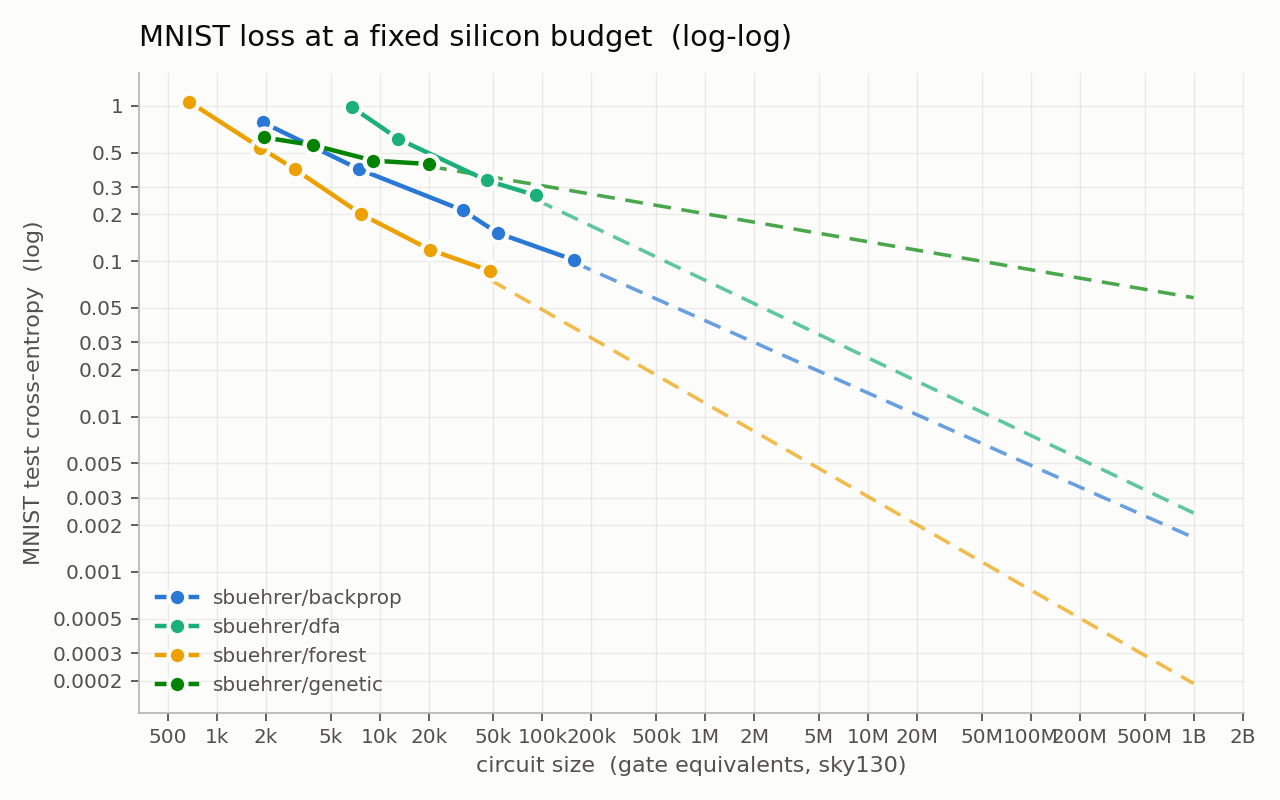
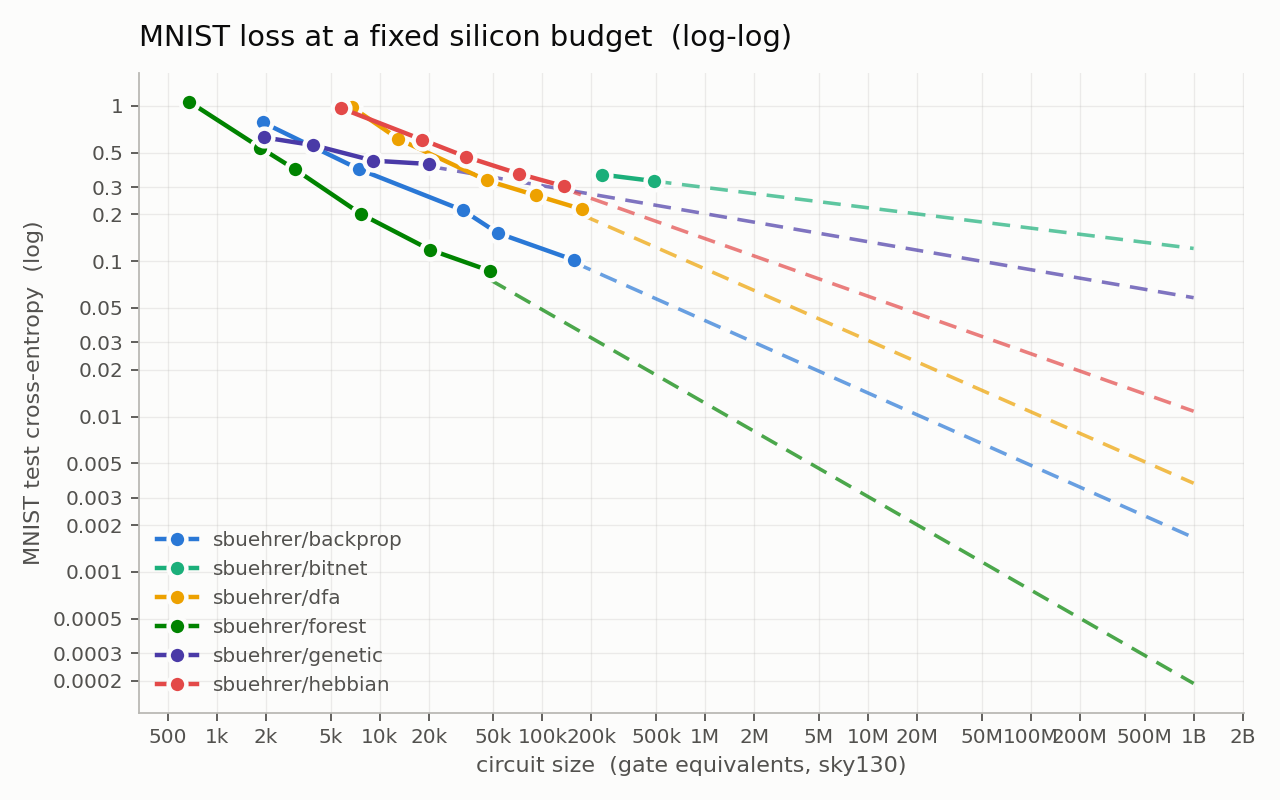
Fix hebbian record shape and add its measured 5-point curve
The record had never been run: it shipped POINTS but no results.json, so it
was absent from the leaderboard. Running it exposed that all four shipped
points were in the wrong regime, and sweeps overturned every knob:

  * Depth is destructive, not merely useless. w4096 d13 plateaus at 63.0% val
    where w4096 d3 reaches 87.6%. Deep nets lose despite a full 784-pixel
    receptive field, beaten by d=4 nets whose gates see 16 pixels.
  * The readout is the entire lever: at ~9k gates, ro=160 -> 43.65% and
    ro=1280 -> 71.80%. The body is worth roughly nothing.
  * bits=1 wins and is free (pix > 127 is bit 7, a wire).

The cause is structural: every hidden layer is trained against a fixed random
class assembly, so a layer-1 gate is asked to predict the digit from two
pixels. It fits noise and each further layer compounds it. The body destroys
information; the grouped vote readout is what classifies. These are the same
lessons `dfa` reached independently on this same butterfly.

Also renames the knob `depth` -> `layers`. bench.run_point merges the measured
netlist fields over the POINTS dict, and one of them is `depth`, so the body
depth was being silently overwritten in results.json -- the bug documented in
the dfa record.

Measured (test acc, from the synthesized netlist):

  xs   5,752 GE  67.21%     l   71,640 GE  88.48%
  s   18,322 GE  80.04%     xl 135,783 GE  90.61%
  m   33,958 GE  84.62%

Every point is below the frontier and dominated by `forest`. The comparison
[…]

diff --git a/records/sbuehrer/hebbian/submission.py b/records/sbuehrer/hebbian/submission.py
@@ -39,13 +39,19 @@ from mnistbench.spec import Submission
 
 TITLE = "hebbian (target-clamped local plasticity)"
 
-# Same fixed butterfly family as the targetprop/DFA records, but with a different local update.
-# `epochs` is a ceiling: validation early-stopping decides where each point actually stops.
+# Same fixed butterfly family as the DFA record, but with a different local update.  The knob is
+# `layers`, not `depth`: `bench.run_point` merges the measured netlist fields over the POINTS dict
+# and one of them is `depth`, so a POINTS key of that name is silently overwritten in results.json.
+#
+# The ladder is shallow with a wide readout because that is what the sweep measured (see README):
+# this rule gets its accuracy from the width of the grouped vote, not from body depth.  `epochs` is
+# a ceiling: validation early-stopping decides where each point actually stops.
 POINTS = [
-    {"name": "xs", "bits": 1, "width": 1024, "depth": 11, "readout": 320, "epochs": 80},
-    {"name": "s", "bits": 1, "width": 2048, "depth": 12, "readout": 640, "epochs": 80},
-    {"name": "m", "bits": 3, "width": 4096, "depth": 13, "readout": 640, "epochs": 80},
-    {"name": "l", "bits": 3, "width": 8192, "depth": 14, "readout": 1280, "epochs": 60},
+    {"name": "xs", "bits": 1, "width": 512, "layers": 3, "readout": 640, "epochs": 80},
+    {"name": "s", "bits": 1, "width": 1024, "layers": 3, "readout": 2560, "epochs": 80},
+    {"name": "m", "bits": 1, "width": 2048, "layers": 3, "readout": 5120, "epochs": 80},
+    {"name": "l", "bits": 1, "width": 4096, "layers": 3, "readout": 10240, "epochs": 60},
+    {"name": "xl", "bits": 1, "width": 8192, "layers": 3, "readout": 20480, "epochs": 60},
 ]
 
 
@@ -92,7 +98,7 @@ class HebbianNet:
         self,
         bits: int,
         width: int,
-        depth: int,
+        layers: int,
         readout: int,
         device: str,
         g: torch.Generator,
@@ -106,7 +112,7 @@ class HebbianNet:
         self.thresholds = even_thresholds(bits)
         self.n_in = N_PIXELS * bits
         self.device = device
-        self.widths = [width] * depth + [readout]
+        self.widths = [width] * layers + [readout]
         self.tau = max(1.0, (readout // N_CLASSES) ** 0.5)
 
         self.offs = [self.n_in]
@@ -182,7 +188,7 @@ class HebbianLut(Submission):
         self,
         bits: int,
         width: int,
-        depth: int,
+        layers: int,
         readout: int,
         epochs: int,
         batch: int = 4096,
@@ -194,7 +200,7 @@ class HebbianLut(Submission):
         self.cfg = dict(
             bits=bits,
             width=width,
-            depth=depth,
+            layers=layers,
             readout=readout,
             epochs=epochs,
             batch=batch,
@@ -211,7 +217,7 @@ class HebbianLut(Submission):
         torch.manual_seed(seed)
         g = torch.Generator(device=device).manual_seed(seed)
         net = HebbianNet(
-            c["bits"], c["width"], c["depth"], c["readout"], device, g, c["assembly_frac"]
+            c["bits"], c["width"], c["layers"], c["readout"], device, g, c["assembly_frac"]
         )
 
         enc_tr = _encode(_t(data.train_x, device), net)
@@ -280,7 +286,7 @@ class HebbianLut(Submission):
 
     def _chunk(self) -> int:
         c = self.cfg
-        n_sig = N_PIXELS * c["bits"] + c["width"] * c["depth"] + c["readout"]
+        n_sig = N_PIXELS * c["bits"] + c["width"] * c["layers"] + c["readout"]
         return max(64, min(4096, 2**28 // n_sig))
 
     @torch.no_grad()

diff --git a/records/sbuehrer/hebbian/README.md b/records/sbuehrer/hebbian/README.md
@@ -1,36 +1,117 @@
 # sbuehrer/hebbian
 
-Fixed butterfly wiring, LUT truth tables learned by a supervised Hebbian / three-factor rule.
+Fixed butterfly wiring, LUT truth tables learned by a supervised Hebbian / three-factor rule. No
+backpropagation, no backward pass of any kind, and — unlike `dfa` — no feedback pathway at all.
 
-Each gate sees only two input bits, so a trainable gate has four possible local patterns.  During
-training, the active pattern is the eligibility trace.  The label supplies a clamped target
-assembly, while the network's current class probabilities supply the free phase:
+Each gate sees only two input bits, so a trainable gate has four possible local patterns. During
+training, the active pattern is the eligibility trace. The label supplies a clamped target assembly,
+while the network's current class probabilities supply the free phase:
 
 ```text
 third factor = target_class_code - predicted_class_mixture
 table[p]    += eligibility[p] * third factor
 ```
 
-Hidden layers get fixed sparse class assemblies.  The readout layer gets the usual one-vs-rest
-class groups.  A hidden gate therefore learns whether its local two-bit pattern should participate
-in the label's assembly, and the readout learns which group should fire.
+Hidden layers get fixed sparse class assemblies. The readout layer gets the usual one-vs-rest class
+groups. A hidden gate therefore learns whether its local two-bit pattern should participate in the
+label's assembly, and the readout learns which group should fire.
 
-No autograd graph is built and no `.backward()` call is made.  The update is just scatter-counting
-onto the active truth-table entry.  The forward pass is hard boolean throughout, so the validation
+No autograd graph is built and no `.backward()` call is made. The update is just scatter-counting
+onto the active truth-table entry. The forward pass is hard boolean throughout, so the validation
 accuracy printed during training is the exact circuit accuracy before synthesis.
+
+## What the sweeps said (val, never test)
+
+This record shipped with the wrong shape. Its original points were 11–14 body layers deep with a
+narrow readout, and every one of those choices measured backwards.
+
+**Depth here is not a cost with no benefit — it is actively destructive.** At a matched gate budget:
+
+| gates | shape | receptive field | val |
+|---|---|---|---|
+| 12,928 | w2048 d6 ro640 | 128/784 | **57.25%** |
+| 33,088 | w4096 d8 ro320 | 432/784 | 50.61% |
+| 49,312 | w4096 d12 ro160 | 784/784 | 38.23% |
+| 28,832 | w2048 d14 ro160 | 784/784 | 20.78% |
+
+Deep nets lose *despite* seeing the whole image, while shallow nets whose gates see 16 of 784 pixels
+win. On full data the gap is stark: `w4096 d13 ro640` plateaus at **63.0%** after 40 epochs, where
+`w4096 d3 ro10240` reaches **87.6%**.
+
+The reason is structural, and it is the honest finding of this record. Every hidden layer is trained
+against a *fixed random class assembly*, so a layer-1 gate is asked to predict the digit from two
+pixels. That is not a hard problem, it is an impossible one: the gate fits noise, and every further
+layer compounds the noise it is handed. The butterfly body destroys information rather than building
+features. What classifies is the grouped vote at the end.
+
+**The readout is the entire lever.** At a fixed ~9k gates, only the vote width moves the number:
+
+| readout | 160 | 320 | 1280 |
+|---|---|---|---|
+| val (w2048 d4) | 43.65 | 58.47 | **71.80** |
+
+Widening the vote is worth +28 points; the body is worth roughly nothing. So every point here is 3
+layers deep and spends its silicon on the readout.
+
+**`bits=1` wins**, and is free (`pix > 127` is bit 7, a wire). Thermometer bits only appear to help
+when the readout is already starved — at `ro=5120`, `bits=3` (83.58%) and `bits=1` (81.77%) land in
+the same place for more area, so the extra encoder bits buy nothing.
+
+These are the same three lessons the `dfa` record reached independently on this same butterfly, which
+is some evidence they are properties of the wiring family rather than of either rule.
 
 ## Points
 
-`bits` thermometer bits per pixel.  `width` is the fixed butterfly body width, `depth` is the
-number of body layers, and `readout` is the final grouped vote layer.
+`bits` thermometer bits per pixel, `width` = gates per body layer, `layers` = body layers, `readout`
+= final grouped vote layer. Wiring is fixed; only the tables are learned.
 
-| point | bits | width | depth | readout |
-|---|---:|---:|---:|---:|
-| xs | 1 | 1024 | 11 | 320 |
-| s | 1 | 2048 | 12 | 640 |
-| m | 3 | 4096 | 13 | 640 |
-| l | 3 | 8192 | 14 | 1280 |
+| point | bits | width | layers | readout | GE | test acc |
+|---|---|---|---|---|---|---|
+| xs | 1 | 512 | 3 | 640 | 5,752 | 67.21% |
+| s | 1 | 1,024 | 3 | 2,560 | 18,322 | 80.04% |
+| m | 1 | 2,048 | 3 | 5,120 | 33,958 | 84.62% |
+| l | 1 | 4,096 | 3 | 10,240 | 71,640 | 88.48% |
+| xl | 1 | 8,192 | 3 | 20,480 | 135,783 | 90.61% |
+
+The knob is `layers`, **not** `depth`: `bench.run_point` merges the measured netlist fields over the
+`POINTS` dict, and one of them is `depth` (the synthesized netlist's longest-path level count). A
+`POINTS` key named `depth` is silently overwritten, and `results.json` then reports the netlist depth
+in place of the body depth — leaving the record unbuildable from its own results. This record shipped
+with that bug and inherited the fix from `dfa`.
 
 ```bash
 python -m mnistbench run records/sbuehrer/hebbian --device cuda
 ```
+
+## Where it lands, honestly
+
+Hebbian is **below the frontier at every size**, and every one of its five points is dominated by
+`forest` — at `l`, 71,640 GE buys 88.48% where a boosted forest gets 97.20% for *two thirds* of the
+area. Against a real optimizer this rule is not competitive, and no amount of tuning inside this
+design closes an 8-point gap.
+
+The comparison that is worth drawing is against `dfa`, which holds the wiring fixed in exactly the
+same way and differs only in what teaches the tables. Interpolating `dfa` to the same area:
+
+| | xs | s | m | l | xl |
+|---|---|---|---|---|---|
+| GE | 5,752 | 18,322 | 33,958 | 71,640 | 135,783 |
+| hebbian | **67.21** | 80.04 | 84.62 | 88.48 | 90.61 |
+| dfa (interp.) | 66.30 | 81.95 | 86.76 | 90.66 | 92.67 |
+| delta | **+0.91** | −1.91 | −2.14 | −2.18 | −2.06 |
+
+Deleting the feedback pathway altogether costs about **two points of accuracy at matched area** —
+and at the smallest size costs nothing at all. That is the result: on this butterfly, a fixed random
+projection of the output error (`dfa`) and a fixed random class assembly per layer (here) are
+teachers of nearly the same quality, because neither one carries information *about the layer it is
+teaching*. What separates both from `backprop` is much larger than what separates them from each
+other.
+
+The ceiling is the hidden-layer target, not the tuning. Every hidden gate is asked to predict the
+class from two bits, so the body cannot build features and the readout does the work — which is why
+these points buy accuracy almost entirely with vote width. A rule that gave hidden layers a target
+that is *not* the class (a decorrelating or unsupervised objective) is the change worth making, and
+it is a different record rather than another point on this curve.
+
+The forward pass is exact boolean, so the val accuracy printed during training *is* the circuit's
+accuracy, and the harness's 512-image model-vs-netlist check passes for every point.

diff --git a/README.md b/README.md
@@ -38,17 +38,25 @@ Every point trains until it stops improving on the validation set, not to a fixe
 |  | `sbuehrer/backprop` | l | 52,973 | 238 | **95.35%** | 0.152 |
 | * | `sbuehrer/forest` | m | 7,711 | 188 | **93.99%** | 0.201 |
 |  | `sbuehrer/backprop` | m | 32,425 | 237 | **93.41%** | 0.213 |
+|  | `sbuehrer/dfa` | xl | 174,903 | 313 | **93.40%** | 0.216 |
+|  | `sbuehrer/bitnet` | s | 482,469 | 457 | **91.96%** | 0.328 |
 |  | `sbuehrer/dfa` | l | 91,506 | 282 | **91.53%** | 0.265 |
+|  | `sbuehrer/hebbian` | xl | 135,783 | 284 | **90.61%** | 0.304 |
+|  | `sbuehrer/bitnet` | xs | 233,380 | 439 | **90.57%** | 0.361 |
 |  | `sbuehrer/dfa` | m | 45,455 | 244 | **89.04%** | 0.331 |
 | * | `sbuehrer/forest` | s | 3,027 | 141 | **88.59%** | 0.389 |
+|  | `sbuehrer/hebbian` | l | 71,640 | 270 | **88.48%** | 0.365 |
 |  | `sbuehrer/backprop` | s | 7,514 | 188 | **87.89%** | 0.390 |
 |  | `sbuehrer/genetic` | l | 20,114 | 206 | **87.28%** | 0.422 |
 |  | `sbuehrer/genetic` | m | 9,146 | 191 | **86.52%** | 0.444 |
 | * | `sbuehrer/forest` | xs | 1,848 | 142 | **84.69%** | 0.538 |
+|  | `sbuehrer/hebbian` | m | 33,958 | 239 | **84.62%** | 0.470 |
 |  | `sbuehrer/genetic` | s | 3,920 | 156 | **83.16%** | 0.558 |
 |  | `sbuehrer/genetic` | xs | 1,945 | 129 | **80.38%** | 0.627 |
+|  | `sbuehrer/hebbian` | s | 18,322 | 227 | **80.04%** | 0.604 |
 |  | `sbuehrer/dfa` | s | 13,036 | 206 | **79.29%** | 0.612 |
 |  | `sbuehrer/backprop` | xs | 1,913 | 130 | **73.10%** | 0.782 |
+|  | `sbuehrer/hebbian` | xs | 5,752 | 177 | **67.21%** | 0.970 |
 | * | `sbuehrer/forest` | tiny | 676 | 115 | **67.07%** | 1.062 |
 |  | `sbuehrer/dfa` | xs | 6,776 | 192 | **66.30%** | 0.978 |
 

diff --git a/results/leaderboard.md b/results/leaderboard.md
@@ -6,17 +6,25 @@
 |  | `sbuehrer/backprop` | l | 52,973 | 238 | **95.35%** | 0.152 |
 | * | `sbuehrer/forest` | m | 7,711 | 188 | **93.99%** | 0.201 |
 |  | `sbuehrer/backprop` | m | 32,425 | 237 | **93.41%** | 0.213 |
+|  | `sbuehrer/dfa` | xl | 174,903 | 313 | **93.40%** | 0.216 |
+|  | `sbuehrer/bitnet` | s | 482,469 | 457 | **91.96%** | 0.328 |
 |  | `sbuehrer/dfa` | l | 91,506 | 282 | **91.53%** | 0.265 |
+|  | `sbuehrer/hebbian` | xl | 135,783 | 284 | **90.61%** | 0.304 |
+|  | `sbuehrer/bitnet` | xs | 233,380 | 439 | **90.57%** | 0.361 |
 |  | `sbuehrer/dfa` | m | 45,455 | 244 | **89.04%** | 0.331 |
 | * | `sbuehrer/forest` | s | 3,027 | 141 | **88.59%** | 0.389 |
+|  | `sbuehrer/hebbian` | l | 71,640 | 270 | **88.48%** | 0.365 |
 |  | `sbuehrer/backprop` | s | 7,514 | 188 | **87.89%** | 0.390 |
 |  | `sbuehrer/genetic` | l | 20,114 | 206 | **87.28%** | 0.422 |
 |  | `sbuehrer/genetic` | m | 9,146 | 191 | **86.52%** | 0.444 |
 | * | `sbuehrer/forest` | xs | 1,848 | 142 | **84.69%** | 0.538 |
+|  | `sbuehrer/hebbian` | m | 33,958 | 239 | **84.62%** | 0.470 |
 |  | `sbuehrer/genetic` | s | 3,920 | 156 | **83.16%** | 0.558 |
 |  | `sbuehrer/genetic` | xs | 1,945 | 129 | **80.38%** | 0.627 |
+|  | `sbuehrer/hebbian` | s | 18,322 | 227 | **80.04%** | 0.604 |
 |  | `sbuehrer/dfa` | s | 13,036 | 206 | **79.29%** | 0.612 |
 |  | `sbuehrer/backprop` | xs | 1,913 | 130 | **73.10%** | 0.782 |
+|  | `sbuehrer/hebbian` | xs | 5,752 | 177 | **67.21%** | 0.970 |
 | * | `sbuehrer/forest` | tiny | 676 | 115 | **67.07%** | 1.062 |
 |  | `sbuehrer/dfa` | xs | 6,776 | 192 | **66.30%** | 0.978 |
 